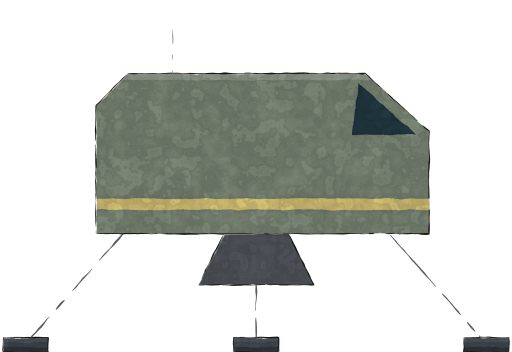
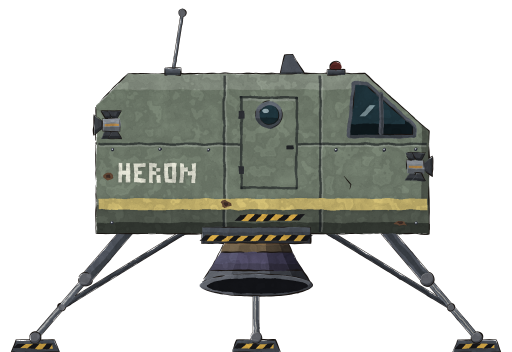
feat(grid): the hangar's five shuttles drawn in detail, each its name painted

diff --git a/tools/anime-art/subjects/vessel.js b/tools/anime-art/subjects/vessel.js
@@ -744,76 +744,312 @@ function capsule(col) {
   };
 }
 
-/** The mockup's shuttle points, cells to pixels, lowered by dy so its feet stand on the picture's foot. */
-const s8 = (pts, dy) => pts.map((v, i) => (i % 2 ? v * 8 + dy : v * 8));
+// The hangar shuttles' parts, placed in pixels from the mockup's cells (docs/plans/big-vessels-mockup.html, SHUTTLE_DRAW). A flat erases the ink under its whole box, so paint on a hull stops short of the hull's outline.
+const SHUTTLE_GLASS = palOf(CANOPY), SHUTTLE_GROOVE = 'rgba(14,16,24,.5)', SHUTTLE_LIP = 'rgba(255,255,255,.16)';
+/** Block letters for the shuttles' painted names, five rows each. */
+const SHUTTLE_GLYPHS = {
+  A: ['###', '#.#', '###', '#.#', '#.#'], B: ['##.', '#.#', '##.', '#.#', '##.'], E: ['###', '#..', '##.', '#..', '###'],
+  G: ['###', '#..', '#.#', '#.#', '###'], H: ['#.#', '#.#', '###', '#.#', '#.#'], L: ['#..', '#..', '#..', '#..', '###'],
+  M: ['#...#', '##.##', '#.#.#', '#...#', '#...#'], N: ['#..#', '##.#', '#.##', '#..#', '#..#'], O: ['###', '#.#', '#.#', '#.#', '###'],
+  R: ['##.', '#.#', '##.', '#.#', '#.#'], T: ['###', '.#.', '.#.', '.#.', '.#.'], U: ['#.#', '#.#', '#.#', '#.#', '###'],
+  W: ['#...#', '#...#', '#.#.#', '##.##', '#...#'],
+};
+/** A shuttle's name stencilled on its hull, h tall from (x, y). */
+function shuttleName(a, text, x, y, h, col) {
+  const u = h / 5;
+  for (const ch of text) {
+    const g = SHUTTLE_GLYPHS[ch];
+    g.forEach((row, j) => {
+      for (let i = 0; i < row.length; i++) {
+        if (row[i] !== '#') continue;
+        let k = i; while (row[k] === '#') k++;
+        a.flat(band(x + i * u, y + j * u, x + k * u, y + (j + 1) * u), col);
+        i = k;
+      }
+    });
+    x += (g[0].length + 1) * u;
+  }
+}
+/** A quadratic's points from (x0, y0) by (cx, cy) to (x1, y1), its start left out. */
+const shuttleQ = (x0, y0, cx, cy, x1, y1) => Array.from({ length: 8 }, (_, i) => { const t = (i + 1) / 8, u = 1 - t; return [u * u * x0 + 2 * u * t * cx + t * t * x1, u * u * y0 + 2 * u * t * cy + t * t * y1]; }).flat();
+/** Where a closed outline of points first and last crosses the upright at x (or the row at y, `across`), half a pixel inside. */
+function shuttleSpan(pts, v, across) {
+  const k = across ? 1 : 0;
+  let lo = Infinity, hi = -Infinity;
+  for (let i = 0; i < pts.length; i += 2) {
+    const j = (i + 2) % pts.length, a0 = pts[i + k], a1 = pts[j + k];
+    if ((a0 - v) * (a1 - v) > 0 || a0 === a1) continue;
+    const w = pts[i + 1 - k] + (pts[j + 1 - k] - pts[i + 1 - k]) * (v - a0) / (a1 - a0);
+    lo = Math.min(lo, w); hi = Math.max(hi, w);
+  }
+  return [lo + .5, hi - .5];
+}
+/** A band of paint across a hull from y0 to y1, between x0 and x1 at most. */
+function shuttleBand(a, pts, y0, y1, col, x0 = -Infinity, x1 = Infinity) {
+  const [l0, h0] = shuttleSpan(pts, y0, true), [l1, h1] = shuttleSpan(pts, y1, true);
+  a.flat(band(Math.max(l0, l1, x0), y0, Math.min(h0, h1, x1), y1), col);
+}
+/** A seam between hull plates, upright at x (or along the row at y, `across`): a dark groove, its far lip catching the light. */
+function shuttleSeam(a, pts, v, across, from = -Infinity, to = Infinity) {
+  const [lo, hi] = shuttleSpan(pts, v, across), s0 = Math.max(lo, from), s1 = Math.min(hi, to);
+  if (across) { a.flat(band(s0, v - .3, s1, v + .3), SHUTTLE_GROOVE); a.flat(band(s0, v + .3, s1, v + .7), SHUTTLE_LIP); }
+  else { a.flat(band(v - .3, s0, v + .3, s1), SHUTTLE_GROOVE); a.flat(band(v + .3, s0, v + .7, s1), SHUTTLE_LIP); }
+}
+/** A porthole of radius r: its ring, the dark glass, a glint; warm when a lamp burns behind it. */
+function shuttlePort(a, x, y, r, warm) {
+  a.shape(ell(x, y, r + 1), MID, { lite: band(x - r - 2, y - r - 2, x + r + 2, y - r * .5), shade: band(x - r - 2, y + r * .4, x + r + 2, y + r + 2) });
+  a.shape(ell(x + .1, y + .1, r), warm ? palOf('#e8c27a') : SHUTTLE_GLASS, { outer: false, shade: band(x - r, y + r * .3, x + r, y + r + 1) });
+  a.flat(ell(x - r * .38, y - r * .38, r * .32, r * .22), 'rgba(214,232,236,.6)');
+}
+/** A hatch let into a hull, w × h from (x, y): its seam round it, a lit head, two hinges, a handle; a porthole in it if `port`. */
+function shuttleHatch(a, x, y, w, h, port) {
+  for (const b of [band(x, y, x + w, y + .6), band(x, y + h - .6, x + w, y + h), band(x, y, x + .6, y + h), band(x + w - .6, y, x + w, y + h)]) a.flat(b, SHUTTLE_GROOVE);
+  a.flat(band(x + .6, y + .6, x + w - .6, y + 1.2), SHUTTLE_LIP);
+  for (const k of [.2, .8]) a.flat(band(x - .4, y + h * k - 1, x + .9, y + h * k + 1), '#2f3238');
+  a.flat(band(x + w - 2.8, y + h * .55 - .5, x + w - 1.2, y + h * .55 + .5), '#24262b');
+  if (port) shuttlePort(a, x + w / 2, y + 2 + Math.min(2.6, w * .2), Math.min(2.4, w * .2));
+}
+/** A canopy of points: its frame, the dark glass shaded low, mullions along `bars` [x0, y0, x1, y1], a glint at (gx, gy). */
+function shuttleCanopy(a, pts, bars, gx, gy) {
+  const d = poly(pts);
+  a.tube(d, 1.8, MID, { spec: false });
+  a.shape(d, SHUTTLE_GLASS, { outer: false, shade: 1.6, deep: 3.4 });
+  for (const [x0, y0, x1, y1] of bars) a.tube(`M${x0} ${y0}L${x1} ${y1}`, 1.1, MID, { spec: false });
+  a.flat(poly(gx - 2, gy + 1.4, gx - .6, gy + 1.4, gx + 2, gy - 1.4, gx + .6, gy - 1.4), 'rgba(206,228,232,.5)');
+}
+/** A quad of manoeuvring thrusters on a block, 4.4 × 3.2 from (x, y): two bells up, two down, one outward (out −1 left, 1 right). */
+function shuttleRcs(a, x, y, out) {
+  for (const u of [1.3, 3.1]) { cone(a, x + u, y, 0, -1.9, .9); cone(a, x + u, y + 3.2, 0, 1.9, .9); }
+  cone(a, out < 0 ? x : x + 4.4, y + 1.6, out * 2.1, 0, 1.2);
+  lit(a, x, y, x + 4.4, y + 3.2, BLOCK);
+  a.flat(band(x + .5, y + 1.3, x + 3.9, y + 1.9), OCHRE);
+}
+/** A whip aerial from a boss at (x, y) up to (tx, ty). */
+function shuttleAerial(a, x, y, tx, ty) {
+  a.tube(`M${x} ${y}L${tx} ${ty}`, .6, LIGHT, { spec: false });
+  a.shape(ell(tx, ty, .9), OLD, {});
+  lit(a, x - 2, y - 1.4, x + 2, y + .4, MID);
+}
+/** The red beacon's glass on its base, standing on the hull at (x, y): dark, the game's light shines through it. */
+function shuttleBeacon(a, x, y) {
+  a.shape(ell(x, y - 1.6, 1.5, 1.4), RED, { lite: band(x - 2, y - 3.2, x + 2, y - 2.3) });
+  lit(a, x - 2.2, y - 1, x + 2.2, y + .4, DARK);
+}
+/** A thruster bell, its throat at (tx, ty), opening left (or down) over len from half-width h0 to h1: brass where the burn was hottest, violet beyond. */
+function shuttleBell(a, tx, ty, down, len, h0, h1) {
+  const hw = (t) => h0 + (h1 - h0) * Math.pow(t, 1.3);
+  const at = (t, k) => (down ? [tx + k * hw(t), ty + t * len] : [tx - t * len, ty + k * hw(t)]);
+  const zone = (t0, t1, k0, k1) => { const p = []; for (let i = 0; i <= 8; i++) p.push(...at(t0 + (t1 - t0) * i / 8, k0)); for (let i = 8; i >= 0; i--) p.push(...at(t0 + (t1 - t0) * i / 8, k1)); return poly(p); };
+  const tone = (t0, t1, m, o) => a.shape(zone(t0, t1, -1, 1), m, { lite: zone(t0, t1, -1.1, -.5), shade: zone(t0, t1, .3, 1.1), deep: zone(t0, t1, .72, 1.1), ...o });
+  tone(0, 1, STEEL);
+  for (const [t0, t1, m] of [[0, .22, BRONZE], [.22, .36, BRONZE2], [.36, .58, VIOLET], [.58, .72, VIOLET2]]) tone(t0, t1, m, { outer: false, edge: false });
+  for (const t of [.36, .72]) a.line(`M${at(t, -.98).join(' ')}L${at(t, .98).join(' ')}`, { w: 2 });
+  const [mx, my] = at(1, 0), r = h1 * (down ? .2 : .3);
+  a.shape(down ? ell(mx, my, h1, r) : ell(mx, my, r, h1), STEEL, { lite: down ? band(mx - h1 - 1, my - r - 1, mx - h1 * .4, my + r + 1) : band(mx - r - 1, my - h1 - 1, mx + r + 1, my - h1 * .45), shade: .9 });
+  a.flat(down ? ell(mx + .3, my + .2, h1 - 1.4, r - .9) : ell(mx + .3, my + .2, r - .9, h1 - 1.4), '#121419');
+  a.shape(down ? band(tx - h0 * 1.3, ty - 1.6, tx + h0 * 1.3, ty + .8) : band(tx - .8, ty - h0 * 1.3, tx + 1.6, ty + h0 * 1.3), OLD, { shade: .7 });
+}
+/**
+ * A landing leg from its hinge (hx, hy) to an ankle over x = fx: an oleo sleeve, its bright piston, a drag brace from `brace` if given;
+ * a pad pw wide standing on y = foot, or none (pw 0) when the ankle stands on a skid at foot.
+ */
+function shuttleGear(a, hx, hy, fx, foot, pw, brace) {
+  const fy = pw ? foot - 3.6 : foot, at = (t) => [hx + (fx - hx) * t, hy + (fy - hy) * t];
+  const [kx, ky] = at(.5), [bx, by] = at(.74), [px, py] = at(.38);
+  if (brace) a.tube(`M${brace[0]} ${brace[1]}L${bx} ${by}`, 1.1, DARK, { spec: false });
+  a.tube(`M${px} ${py}L${fx} ${fy}`, 1.4, LIGHT);
+  a.tube(`M${hx} ${hy}L${kx} ${ky}`, 2.8, MID, { spec: false });
+  a.shape(ell(kx, ky, 1.7), OLD, { shade: .6 });
+  if (brace) a.shape(ell(bx, by, .9), OLD, {});
+  if (pw) {
+    a.shape(poly(fx - pw / 2, foot, fx + pw / 2, foot, fx + pw / 2 - 1.2, foot - 3, fx - pw / 2 + 1.2, foot - 3), DARK, { lite: band(fx - pw, foot - 3, fx + pw, foot - 2.3) });
+    hazardFoot(a, fx - pw / 2 + 1.6, foot - 2.1, pw - 3.2, 1.2);
+  }
+  a.shape(ell(fx, fy, 1.4), OLD, { shade: .6 });
+}
+
 /** machine_vesselShuttleGull: a courier, a light hull with its orange stripe on two skids. 21 × 7 cells. */
 function gull(a) {
-  const dy = 4;
-  a.shape(poly(s8([0, 2.3, 2.2, 2.9, 2.2, 4.3, 0, 4.9], dy)), NOZZLE, {});
-  for (const [x0, x1] of [[5.5, 4.8], [15, 15.7]]) a.line(`M${x0 * 8} ${5.2 * 8 + dy}L${x1 * 8} ${6.4 * 8 + dy}`, { c: '#5a6069', w: 1.6 });
-  lit(a, 30, 54.4, 136, 56, DARK);
-  const hull = poly(s8([2.2, 2.4, 5.2, 1.2, 12.4, .9, 16.6, 1.6, 21, 3.5, 19.8, 4.7, 13.4, 5.2, 3.2, 5.2, 2.2, 4.4], dy));
-  a.shape(hull, palOf('#c9c6bd'), { lite: band(0, 0, 168, 18) });
-  a.flat(band(16, 3.6 * 8 + dy, 160, 4.05 * 8 + dy), '#c8722e', { clip: hull });
-  a.flat(poly(s8([12.6, 1.05, 16.2, 1.75, 18.6, 3, 13.6, 2.7], dy)), CANOPY);
+  const P = palOf('#c9c6bd');
+  shuttleBell(a, 18.4, 32.4, false, 15.6, 5.8, 9.8);
+  shuttleGear(a, 48, 45.2, 42, 53.4, 0, [58, 45.4]);
+  shuttleGear(a, 120, 45.2, 126, 53.4, 0, [108, 45.4]);
+  const skid = [28, 53.4, 134, 53.4, ...shuttleQ(134, 53.4, 139.2, 53.4, 140.4, 49.6), 142.4, 50.2, ...shuttleQ(142.4, 50.2, 141, 56, 134, 56), 30, 56, ...shuttleQ(30, 56, 27.6, 56, 27.6, 54.6)];
+  a.shape(poly(skid), DARK, { lite: band(0, 53, 168, 54.2) });
+  for (const x of [30, 122]) hazardFoot(a, x, 54.4, 10, 1.2);
+  const pts = [17.6, 23.2, ...shuttleQ(17.6, 23.2, 27, 15.6, 41.6, 13.6), 99.2, 11.2, ...shuttleQ(99.2, 11.2, 118, 11.6, 132.8, 16.8), 160, 28.4,
+    ...shuttleQ(160, 28.4, 168.4, 32, 165.6, 35.4), 158.4, 41.6, ...shuttleQ(158.4, 41.6, 154, 44.6, 146, 45), 107.2, 45.6, 25.6, 45.6, 17.6, 39.2];
+  const hull = poly(pts);
+  a.shape(hull, P, { lite: band(0, 0, 168, 16.4), shade: [2.4, band(0, 40, 168, 46)], deep: band(0, 43.6, 168, 46) });
+  // Plates, the painted stripe and name, the side hatch with its warning sill.
+  for (const x of [40, 62, 86, 112]) shuttleSeam(a, pts, x);
+  shuttleSeam(a, pts, 29.2, true, 0, 66); shuttleSeam(a, pts, 29.2, true, 80, 150);
+  shuttleBand(a, pts, 32.8, 36.4, '#c8722e'); shuttleBand(a, pts, 37.2, 37.8, '#6e3a1a');
+  shuttleName(a, 'GULL', 44, 18.8, 5, 'rgba(28,28,30,.8)');
+  shuttleHatch(a, 66, 16.8, 14, 26, true);
+  hazardFoot(a, 66, 43.2, 14, 1.4);
+  rivets(a, [24, 30.6], [36, 30.6], [46, 30.6], [56, 30.6], [92, 30.6], [104, 30.6], [130, 30.6], [144, 30.6], [44, 43], [100, 43]);
+  patch(a, 61, 43.2, 2, .8, RUST, hull, 401); patch(a, 112.8, 30.6, 1.4, 1, RUST, hull, 403); patch(a, 40.4, 38.6, 1.1, .8, RUST, hull, 405);
+  patch(a, 22.6, 36, 2.4, 1.6, SCORCH, hull, 407);
+  a.line('M128 38.2L130.2 40.4L129.8 41.8');
+  // What stands on it: the canopy, a porthole, thrusters, aerials, the beacon.
+  shuttlePort(a, 93, 20.4, 2.2);
+  shuttleCanopy(a, [100.8, 12.6, ...shuttleQ(100.8, 12.6, 118, 13.2, 129.6, 17.8), 148.4, 27.6, ...shuttleQ(148.4, 27.6, 128, 27.6, 108.8, 25.6)],
+    [[114.6, 13.8, 117.6, 26.4], [132.4, 19.4, 134.4, 27.4]], 123, 18.6);
+  shuttleRcs(a, 24.4, 23.6, -1); shuttleRcs(a, 148, 37.4, 1);
+  a.shape(poly(50, 13.6, 56.4, 13.4, 53.6, 8.2, 51.4, 8.4), MID, { shade: .6 });
+  shuttleAerial(a, 84, 11.8, 87.6, 2);
+  shuttleBeacon(a, 72, 12.4);
 }
 /** machine_vesselShuttleMule: a cargo hauler, its cab forward over a yellow box, on two struts. 24 × 9 cells. */
 function mule(a) {
-  const dy = 4;
-  for (const by of [1.6, 4]) a.shape(poly(s8([0, by, 2, by + .5, 2, by + 1.6, 0, by + 2.1], dy)), NOZZLE, {});
-  for (const x of [44, 160]) lit(a, x, 6 * 8 + dy, x + 3.2, 72, DARK);
-  a.shape(band(16, 1.6 * 8 + dy, 128, 2.3 * 8 + dy), MID, {});
-  a.shape(band(16, 1.6 * 8 + dy, 35.2, 6.2 * 8 + dy), DARK, {});
-  const box = band(36.8, 2.5 * 8 + dy, 124.8, 6.9 * 8 + dy);
-  a.shape(box, palOf('#c9a03a'), { lines: Array.from({ length: 12 }, (_, i) => `M${43 + i * 6.8} ${2.9 * 8 + dy}L${43 + i * 6.8} ${6.5 * 8 + dy}`) });
-  const cab = poly(s8([15.6, .6, 21.4, .6, 24, 2.6, 24, 5.6, 15.6, 5.6], dy));
-  a.shape(cab, palOf('#b8b3a6'), { lite: band(124, 0, 192, 12) });
-  hazardFoot(a, 124.8, 4.8 * 8 + dy, 67.2, 4.4, cab);
-  a.flat(poly(s8([21.2, .9, 23.6, 2.8, 21.6, 2.8], dy)), CANOPY);
-  lit(a, 36, 69.6, 176, 72, DARK);
+  for (const cy of [25.2, 44.4]) shuttleBell(a, 16.4, cy, false, 13.6, 4.4, 7.8);
+  shuttleGear(a, 50, 58.4, 46, 72, 12, [62, 58.8]);
+  shuttleGear(a, 160, 48, 164, 72, 12, [148, 48.4]);
+  // The spine beam, its lightening holes; the engine block, its grille and access panel.
+  lit(a, 16, 16.8, 128, 22.4, MID);
+  for (let x = 44; x < 124; x += 12) { a.flat(ell(x, 19.8, 2.6, 1.2), '#1e2228'); a.flat(band(x - 2, 20.6, x + 2, 21.2), 'rgba(255,255,255,.12)'); }
+  lit(a, 16, 16.8, 35.2, 53.6, DARK);
+  for (let y = 21.6; y < 31; y += 2) { a.flat(band(19.6, y, 31.6, y + .9), '#13161b'); a.flat(band(19.6, y + .9, 31.6, y + 1.3), 'rgba(255,255,255,.12)'); }
+  shuttleHatch(a, 19.6, 33.6, 12, 13.6);
+  rivets(a, [18.4, 19.2], [32.8, 19.2], [18.4, 48.8], [32.8, 48.8]);
+  hazardFoot(a, 16.8, 50.2, 17.6, 2.4);
+  patch(a, 19.2, 30, 1.4, 2.6, SCORCH, band(16, 16.8, 35.2, 53.6), 411);
+  // The cargo box: corrugation, corner castings, its door's lock rods, the hold's number.
+  const Y = palOf('#c9a03a'), box = band(36.8, 24, 124.8, 59.2);
+  a.shape(box, Y, { lite: band(36.8, 24, 124.8, 26.4), shade: band(36.8, 54.8, 124.8, 59.2), deep: band(36.8, 57.6, 124.8, 59.2) });
+  for (let x = 40.8; x < 120; x += 6.8) { a.flat(band(x, 27.2, x + 1, 56.4), Y.shade); a.flat(band(x + 1, 27.2, x + 1.5, 56.4), Y.lite); }
+  for (const [x, y] of [[37.3, 24.5], [120.8, 24.5], [37.3, 54.7], [120.8, 54.7]]) a.flat(band(x, y, x + 3.6, y + 4), '#2a2c30');
+  a.flat(band(44.8, 30.4, 62.4, 40.8), Y.base);
+  stencil(a, '07', 47.2, 32, 'rgba(30,26,20,.72)');
+  for (const x of [106.4, 113.2]) { a.tube(`M${x} 27.6L${x} 55.6`, .9, LIGHT, { spec: false }); a.flat(band(x - .2, 40, x + 2.4, 41.2), '#2a2c30'); }
+  patch(a, 70, 56.2, 2.2, .9, RUST, box, 413); patch(a, 96, 26.4, 1.4, .7, RUST, box, 415); patch(a, 52, 56.4, 1.2, .7, RUST, box, 417);
+  // The cab: plates, the door with its window over a warning sill, the name, the canopy, thrusters, aerial and beacon.
+  const C = palOf('#b8b3a6');
+  const pts = [124.8, 8.8, 169.6, 8.8, ...shuttleQ(169.6, 8.8, 174, 8.8, 177.6, 11.6), 190, 21.6, ...shuttleQ(190, 21.6, 191.6, 23, 191.6, 26), 191.6, 48.8, 124.8, 48.8];
+  const cab = poly(pts);
+  a.shape(cab, C, { lite: band(124, 8.8, 192, 12.2), shade: [2.2, band(124, 40.4, 192, 48.8)], deep: band(124, 46.6, 192, 48.8) });
+  shuttleSeam(a, pts, 168.8); shuttleSeam(a, pts, 28.8, true, 0, 149.6); shuttleSeam(a, pts, 28.8, true, 163.2, 192);
+  hazardFoot(a, 125.4, 42.4, 65.6, 4);
+  shuttleHatch(a, 149.6, 12, 13.6, 29.6, true);
+  shuttleName(a, 'MULE', 128.8, 15.2, 4.8, 'rgba(28,28,30,.8)');
+  rivets(a, [128, 30.4], [145.6, 30.4], [166.4, 30.4], [188, 30.4], [128, 39.6], [188, 39.6]);
+  patch(a, 186, 37, 1.6, .9, RUST, cab, 419); patch(a, 132, 38.4, 1.2, .8, RUST, cab, 421);
+  a.line('M140 32L141.8 34.2L141.4 35.6');
+  shuttleCanopy(a, [170.4, 12, 175.6, 12, 187.6, 22.4, 187.6, 26.4, 172.4, 26.4], [[179.6, 14.8, 179.6, 26]], 175.2, 18.4);
+  shuttleRcs(a, 180, 31.6, 1); shuttleRcs(a, 18.4, 13.6, -1);
+  shuttleAerial(a, 136, 8.8, 138.4, 1.2);
+  shuttleBeacon(a, 158, 8.8);
 }
 /** machine_vesselShuttleBeetle: a tug, an orange dome on three legs, its claw arm forward. 16 × 9 cells. */
 function beetle(a) {
-  const dy = 4;
-  for (const [lx, fx] of [[3.5, 2.2], [8, 8], [12.4, 13.6]]) {
-    a.line(`M${lx * 8} ${5.6 * 8 + dy}L${fx * 8} ${8.1 * 8 + dy}`, { c: '#5a6069', w: 1.8 });
-    lit(a, fx * 8 - 4.8, 68.4, fx * 8 + 4.8, 72, DARK);
-  }
-  const shell = [];
-  for (let i = 0; i <= 16; i++) { const t = Math.PI + Math.PI * i / 16; shell.push(64 + Math.cos(t) * 49.6, 5.6 * 8 + dy + Math.sin(t) * 36.8); }
-  const d = poly(shell);
-  a.shape(d, palOf('#c8722e'), { lite: band(0, 0, 128, 14) });
-  a.flat(band(12.8, 4.4 * 8 + dy, 115.2, 4.8 * 8 + dy), '#6a3f22', { clip: d });
-  a.flat(ell(83.2, 2.9 * 8 + dy, 8.8, 7.2), CANOPY);
-  a.tube(`M107.2 ${4.4 * 8 + dy}L121.6 ${5.4 * 8 + dy}L126.4 ${6.6 * 8 + dy}`, 1.8, LIGHT, { spec: false });
+  const O = palOf('#c8722e'), cx = 64, cy = 48.8, rx = 49.6, ry = 36.8;
+  shuttleBell(a, 18.8, 41.6, false, 13.6, 3, 5.6);
+  shuttleGear(a, 30, 46, 18.4, 72, 10, [42, 47.6]);
+  shuttleGear(a, 64, 47.6, 64, 72, 10);
+  shuttleGear(a, 98, 46, 109.6, 72, 10, [86, 47.6]);
+  for (const x of [43, 85]) lit(a, x, 14, x + 2.4, 18, MID);
+  const pts = [];
+  for (let i = 0; i <= 32; i++) { const t = Math.PI + Math.PI * i / 32; pts.push(cx + Math.cos(t) * rx, cy + Math.sin(t) * ry); }
+  const shell = poly(pts);
+  a.shape(shell, O, { lite: band(0, 0, 128, 15.2), shade: [3.2, band(0, 40, 128, 50)], deep: band(0, 45.2, 128, 50) });
+  // Plates: two rings of seams round the dome, a meridian up its middle and one curving over its bow.
+  shuttleSeam(a, pts, 22.4, true); shuttleSeam(a, pts, 33.6, true); shuttleSeam(a, pts, 64, false, 22.4, 38.4);
+  const s = .82, mer = Array.from({ length: 9 }, (_, i) => { const l = Math.asin(10.4 / ry) + (1.2 - Math.asin(10.4 / ry)) * i / 8; return `${(cx + s * rx * Math.cos(l)).toFixed(2)} ${(cy - ry * Math.sin(l)).toFixed(2)}`; });
+  a.line('M' + mer.join('L'), { c: 'rgba(14,16,24,.55)', w: 3.6 });
+  shuttleName(a, 'BEETLE', 27.2, 27.2, 4.4, 'rgba(30,20,15,.8)');
+  shuttleHatch(a, 49.6, 19.2, 11.2, 18.4);
+  rivets(a, [24, 35], [40, 35], [76, 35], [100, 35], [36, 23.8], [96, 23.8]);
+  patch(a, 44, 33.6, 1.6, .9, RUST, shell, 431); patch(a, 99, 22.6, 1.2, .8, RUST, shell, 433); patch(a, 22, 44.6, 2.2, 1.4, SCORCH, shell, 435);
+  a.line('M70 30L71.6 32.2L71.2 33.4');
+  // The bumper ring it pushes with, hazard-striped fore and aft.
+  const bump = Anime.rr(13.6, 38.4, 100.8, 4.8, 1.6);
+  a.shape(bump, palOf('#34302c'), { lite: band(0, 38.4, 128, 39.4), shade: band(0, 41.8, 128, 43.2), lines: [26.4, 39.2, 52, 64.8, 77.6, 90.4].map((x) => `M${x} 38.4L${x} 43.2`) });
+  hazardFoot(a, 15.6, 39.4, 10, 2.8); hazardFoot(a, 101.6, 39.4, 10.6, 2.8);
+  // The canopy, a round port in a riveted ring; thrusters, aerial, beacon.
+  a.shape(ell(83.2, 27.2, 10, 8.4), MID, { lite: band(70, 17, 97, 21.4), shade: band(70, 32.6, 97, 37) });
+  a.shape(ell(83.6, 27.6, 7.6, 6.2), SHUTTLE_GLASS, { outer: false, shade: 1.6, deep: 3.4 });
+  a.tube('M84.4 21.6L84.4 33.6', 1, MID, { spec: false });
+  a.flat(poly(77.6, 27, 79.2, 27, 81.6, 23.4, 80, 23.4), 'rgba(206,228,232,.5)');
+  rivets(a, ...[0, 1, 2, 3, 4, 5, 6, 7].map((k) => [83.2 + Math.cos(k * Math.PI / 4) * 8.8, 27.2 + Math.sin(k * Math.PI / 4) * 7.3]));
+  shuttleRcs(a, 42, 11.8, -1); shuttleRcs(a, 84, 12.6, 1);
+  shuttleAerial(a, 60, 12.4, 57, 1.6);
+  shuttleBeacon(a, 70, 12.6);
+  // The claw arm, forward: its shoulder, a ram along the upper arm, the elbow, the forearm and two fingers.
+  a.tube('M101.6 31.6L115.6 40.8', .9, COPPER);
+  a.tube('M106.4 36.8L119.2 44.8', 3, LIGHT);
+  a.tube('M119.2 44.8L123.6 54.4', 2.2, LIGHT);
+  a.tube('M123.6 54.4L120.4 58.4L121.6 61.6', 1.2, DARK, { spec: false });
+  a.tube('M123.6 54.4L126.6 58.6L125 61.6', 1.2, DARK, { spec: false });
+  a.shape(ell(106.4, 36.8, 3), MID, { shade: .9 });
+  a.shape(ell(119.2, 44.8, 2.2), OLD, { shade: .6 });
+  a.shape(ell(123.6, 54.4, 1.6), OLD, { shade: .5 });
+  rivets(a, [106.4, 36.8]);
 }
 /** machine_vesselShuttleWhale: a lifeboat, long and pale, a row of portholes, its blue stripe. 24 × 7 cells. */
 function whale(a) {
-  const dy = 6;
-  a.shape(poly(s8([0, 2.2, 2, 2.6, 2, 3.8, 0, 4.2], dy)), NOZZLE, {});
-  a.shape(poly(s8([2.4, 1.5, 5, 1.5, 3.6, .2, 2.4, .2], dy)), MID, {});
-  a.shape(poly(s8([2.4, 5, 5, 5, 3.6, 6.2, 2.4, 6.2], dy)), MID, {});
-  const nose = [];
-  for (let i = 0; i <= 10; i++) { const t = -Math.PI / 2 + Math.PI * i / 10; nose.push(21.6 + Math.cos(t) * 2.2, 3 + Math.sin(t) * 2.2); }
-  const hull = poly(s8([2, .8, ...nose, 2, 5.2], dy));
-  a.shape(hull, palOf('#d0cec6'), { lite: band(0, 0, 192, 14) });
-  a.flat(band(16, 4.1 * 8 + dy, 184, 4.55 * 8 + dy), '#2d5a8a', { clip: hull });
-  for (let x = 6; x < 20; x += 2) a.flat(ell(x * 8, 2.6 * 8 + dy, 3.6), x % 6 === 0 ? '#e8c27a' : CANOPY);
-  lit(a, 24, 5.2 * 8 + dy, 168, 56, DARK);
+  const W = palOf('#d0cec6');
+  shuttleBell(a, 16.8, 31.6, false, 14, 4.4, 8);
+  shuttleGear(a, 72, 46.8, 70, 56, 10);
+  shuttleGear(a, 144, 46.8, 146, 56, 10);
+  // The tail fins, hazard-tipped.
+  for (const [p, hy] of [[[19.2, 18, 40, 18, 28.8, 7.6, 19.2, 7.6], 8.2], [[19.2, 46, 40, 46, 28.8, 55.6, 19.2, 55.6], 53.2]]) {
+    const fin = poly(p);
+    a.shape(fin, MID, { lite: band(0, 7, 192, 9.2), shade: band(0, 50, 192, 56), lines: ['M22 9L22 54'] });
+    hazardFoot(a, 19.8, hy, 8, 1.8);
+  }
+  const pts = [16, 12.4];
+  for (let i = 0; i <= 16; i++) { const t = -Math.PI / 2 + Math.PI * i / 16; pts.push(172.8 + Math.cos(t) * 17.6, 30 + Math.sin(t) * 17.6); }
+  pts.push(16, 47.6);
+  const hull = poly(pts);
+  a.shape(hull, W, { lite: band(0, 0, 192, 16.8), shade: [3, band(0, 40.8, 192, 48)], deep: band(0, 45.2, 192, 48) });
+  // Plates and the nose cap, the stripe, the name, the emergency hatch with its warning sill and pull.
+  for (const x of [40, 72, 104, 136, 172.8]) shuttleSeam(a, pts, x);
+  shuttleSeam(a, pts, 20, true, 0, 151.2); shuttleSeam(a, pts, 20, true, 167.2, 172.4);
+  shuttleBand(a, pts, 38.8, 42.4, '#2d5a8a'); shuttleBand(a, pts, 43.2, 43.8, '#1f3d5e');
+  shuttleName(a, 'WHALE', 49.6, 32.8, 4.4, 'rgba(28,28,30,.8)');
+  shuttleHatch(a, 151.2, 15.2, 16, 22.4);
+  hazardFoot(a, 151.2, 44.4, 16, 1.8);
+  a.flat(band(164.4, 24.4, 165.8, 29.2), '#b8452c');
+  rivets(a, [24, 21.6], [56, 21.6], [88, 21.6], [120, 21.6], [146, 21.6], [24, 44.8], [88, 44.8], [120, 44.8]);
+  patch(a, 104.4, 44.6, 1.6, .9, RUST, hull, 441); patch(a, 136.4, 21.2, 1.2, .8, RUST, hull, 443); patch(a, 40.4, 35.6, 1, .8, RUST, hull, 445);
+  patch(a, 21, 30, 2.2, 1.6, SCORCH, hull, 447);
+  a.line('M84 36L85.6 38L85.2 38.6');
+  // Portholes, three lit within; thrusters, aerials, beacon.
+  for (let x = 48; x <= 144; x += 16) shuttlePort(a, x, 26.8, 2.7, x % 48 === 0);
+  shuttleRcs(a, 46, 9.2, -1); shuttleRcs(a, 174.4, 17.6, 1);
+  a.shape(poly(86, 12.6, 92.4, 12.4, 89.6, 7.6, 87.6, 7.8), MID, { shade: .6 });
+  shuttleAerial(a, 120, 12.4, 123.2, 1.6);
+  shuttleBeacon(a, 104, 12.4);
 }
 /** machine_vesselShuttleHeron: a lander, a green hull high on three legs, its belly nozzle. 16 × 11 cells. */
 function heron(a) {
-  const dy = 7.2;
-  for (const [lx, ly, fx] of [[4.2, 6, .8], [8, 6.4, 8], [11.8, 6, 15.2]]) {
-    a.line(`M${lx * 8} ${ly * 8 + dy}L${fx * 8} ${86}`, { c: '#5a6069', w: 2 });
-    lit(a, Math.max(0, fx * 8 - 5.6), 84.4, Math.min(128, fx * 8 + 5.6), 88, DARK);
-  }
-  a.shape(poly(s8([7, 6.4, 9, 6.4, 9.8, 8, 6.2, 8], dy)), NOZZLE, {});
-  const hull = poly(s8([4, 1.4, 11.4, 1.4, 13.4, 3.2, 13.4, 6.4, 3, 6.4, 3, 2.4], dy));
-  a.shape(hull, palOf('#6f7d6a'), { lite: band(0, 0, 128, 20) });
-  a.flat(band(24, 5.3 * 8 + dy, 108, 5.65 * 8 + dy), '#c9b25a', { clip: hull });
-  a.flat(poly(s8([11.2, 1.7, 13, 3.3, 11, 3.3], dy)), CANOPY);
-  a.line(`M43.2 ${1.4 * 8 + dy}L43.2 ${dy}`, { c: '#7c838c', w: 1 });
+  const G = palOf('#6f7d6a');
+  shuttleGear(a, 64, 58, 64, 88, 12);
+  shuttleBell(a, 64, 58.4, true, 12.8, 7.2, 14);
+  shuttleGear(a, 34, 55.2, 8.8, 88, 12, [46, 58]);
+  shuttleGear(a, 94.4, 55.2, 119.2, 88, 12, [82, 58]);
+  const pts = [32, 18.4, 91.2, 18.4, 107.2, 32.8, 107.2, 58.4, 24, 58.4, 24, 26.4];
+  const hull = poly(pts);
+  a.shape(hull, G, { lite: band(0, 0, 128, 22.4), shade: [3, band(0, 51.2, 128, 58.4)], deep: band(0, 55.6, 128, 58.4) });
+  // Plates, the gold stripe, the name in pale paint, the side door over its warning sill.
+  for (const x of [56, 80]) shuttleSeam(a, pts, x);
+  shuttleSeam(a, pts, 36, true, 0, 60); shuttleSeam(a, pts, 36, true, 74.4, 128);
+  shuttleBand(a, pts, 49.6, 52.4, '#c9b25a');
+  shuttleName(a, 'HERON', 29.6, 40.8, 4.8, 'rgba(232,230,218,.8)');
+  shuttleHatch(a, 60, 24, 14.4, 23.2, true);
+  hazardFoot(a, 60, 53.6, 14.4, 1.6);
+  rivets(a, [28, 37.4], [40, 37.4], [52, 37.4], [84, 37.4], [96, 37.4], [104, 37.4], [28, 55.6], [104, 55.6]);
+  patch(a, 56.4, 50.8, 1.4, 1, RUST, hull, 451); patch(a, 100, 55.8, 1.6, .8, RUST, hull, 453); patch(a, 27, 44, 1.2, .9, RUST, hull, 455);
+  a.line('M86 44L87.8 46.2L87.4 47.4');
+  // The belly nozzle's fairing, striped; the canopy, thrusters, aerials and beacon.
+  lit(a, 50.4, 56.8, 77.6, 60.8, DARK);
+  hazardFoot(a, 51.2, 58.8, 25.6, 1.4);
+  shuttleCanopy(a, [88.8, 21.2, 91.4, 21.2, 103.2, 31.8, 103.2, 33.6, 87.6, 33.6], [[95.2, 23.4, 95.2, 33.2]], 91.8, 27.6);
+  shuttleRcs(a, 25.6, 29.6, -1); shuttleRcs(a, 101.6, 40, 1);
+  a.shape(poly(70, 18.6, 76, 18.4, 73.2, 13.6, 71.2, 13.8), MID, { shade: .6 });
+  shuttleAerial(a, 43.2, 18.4, 45.6, 3.2);
+  shuttleBeacon(a, 84, 18.4);
 }
 
 /** vessel_pool_tiles: the pool hall's tiled wall, a tile that repeats. 8 × 8 cells. */
